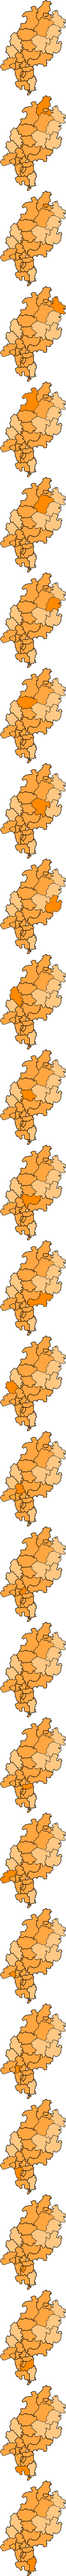
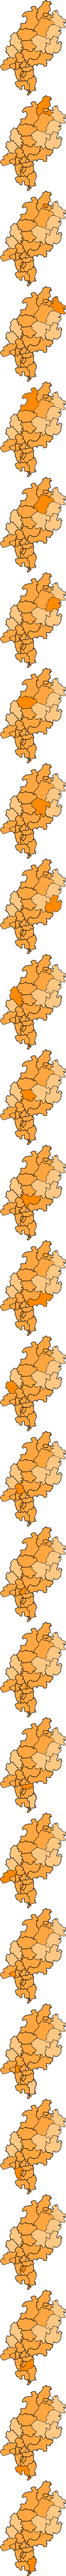
KV Odenwald hinzugefügt

diff --git a/pp_hessen.js b/pp_hessen.js
@@ -231,7 +231,7 @@ var pp_hessen = {
 		lines: [
 			"viele Piraten",
 			"<a href='http://www.piratenpartei-odenwald.de/content/piraten-treffen'>Stammtisch</a>",
-			"<a href='http://www.piratenpartei-odenwald.de/content/mitmachen'>Mit- und Neupiraten gesucht</a>",
+			"<a href='http://www.piratenpartei-odenwald.de/content/mitmachen'>Mitmachen im Kreisverband</a>",
 		]
 	},
 };
@@ -283,7 +283,7 @@ function pp_hessen_outHessen() {
 		if (pp_hessen_default == 0) {
 			$("#pp_hessen_regionTitle").html("Landesverband Hessen");
 			$("#pp_hessen_regionLine1").html(pp_hessen_lv_count);
-			$("#pp_hessen_regionLine2").html("<a href='http://www.piratenpartei-hessen.de/kreisverbaende'>16 Kreisverbände</a>");
+			$("#pp_hessen_regionLine2").html("<a href='http://www.piratenpartei-hessen.de/kreisverbaende'>17 Kreisverbände</a>");
 			$("#pp_hessen_regionLine3").html("<a href='http://www.piratenpartei-hessen.de/kommunalpolitik'>32 Abgeordnete</a>");
 			$("#pp_hessen_regionLine4").html("<a href='http://www.piratenpartei-hessen.de/mitmachen'>Mitmachen</a>");
 			$("#pp_hessen_karteHessen").css('background-position', '0 0');
